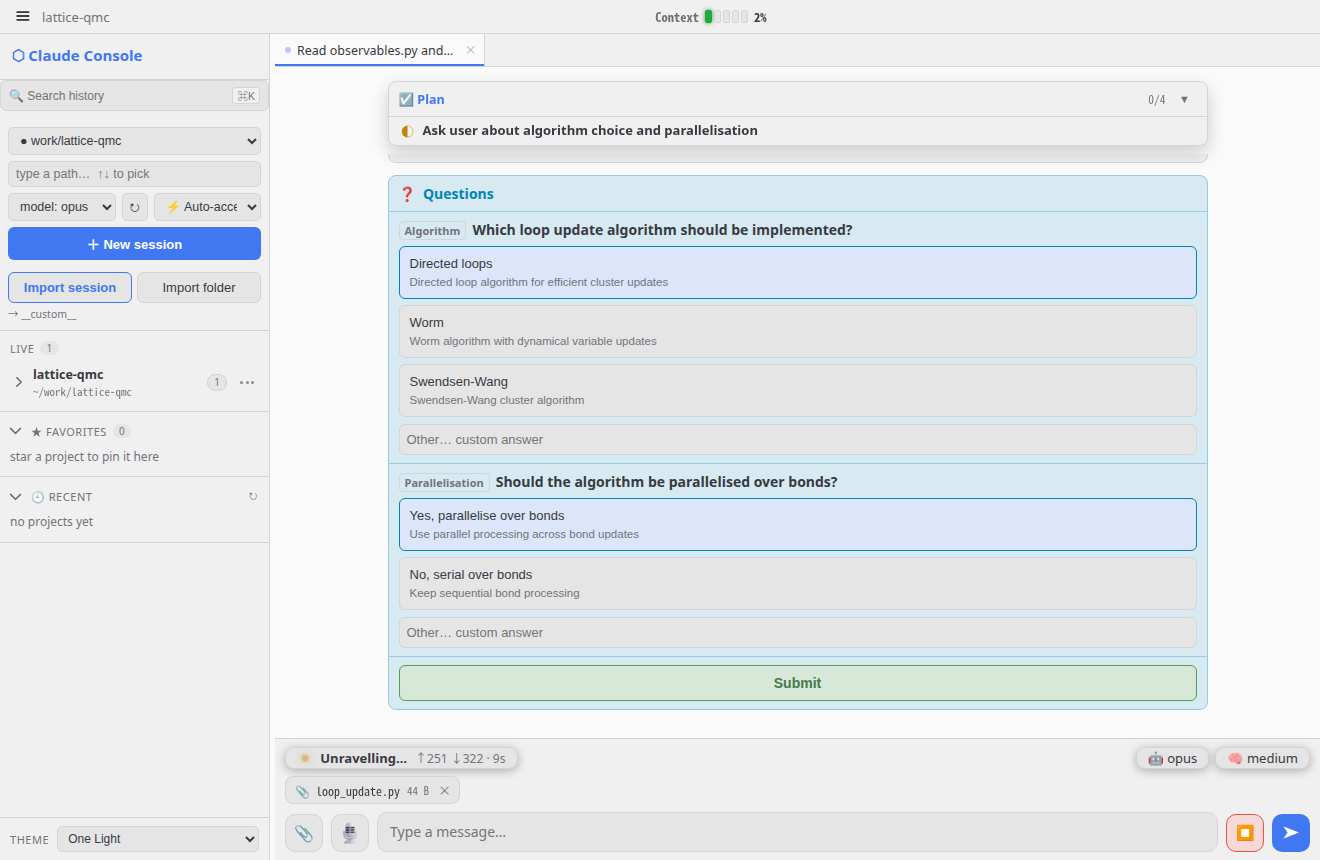
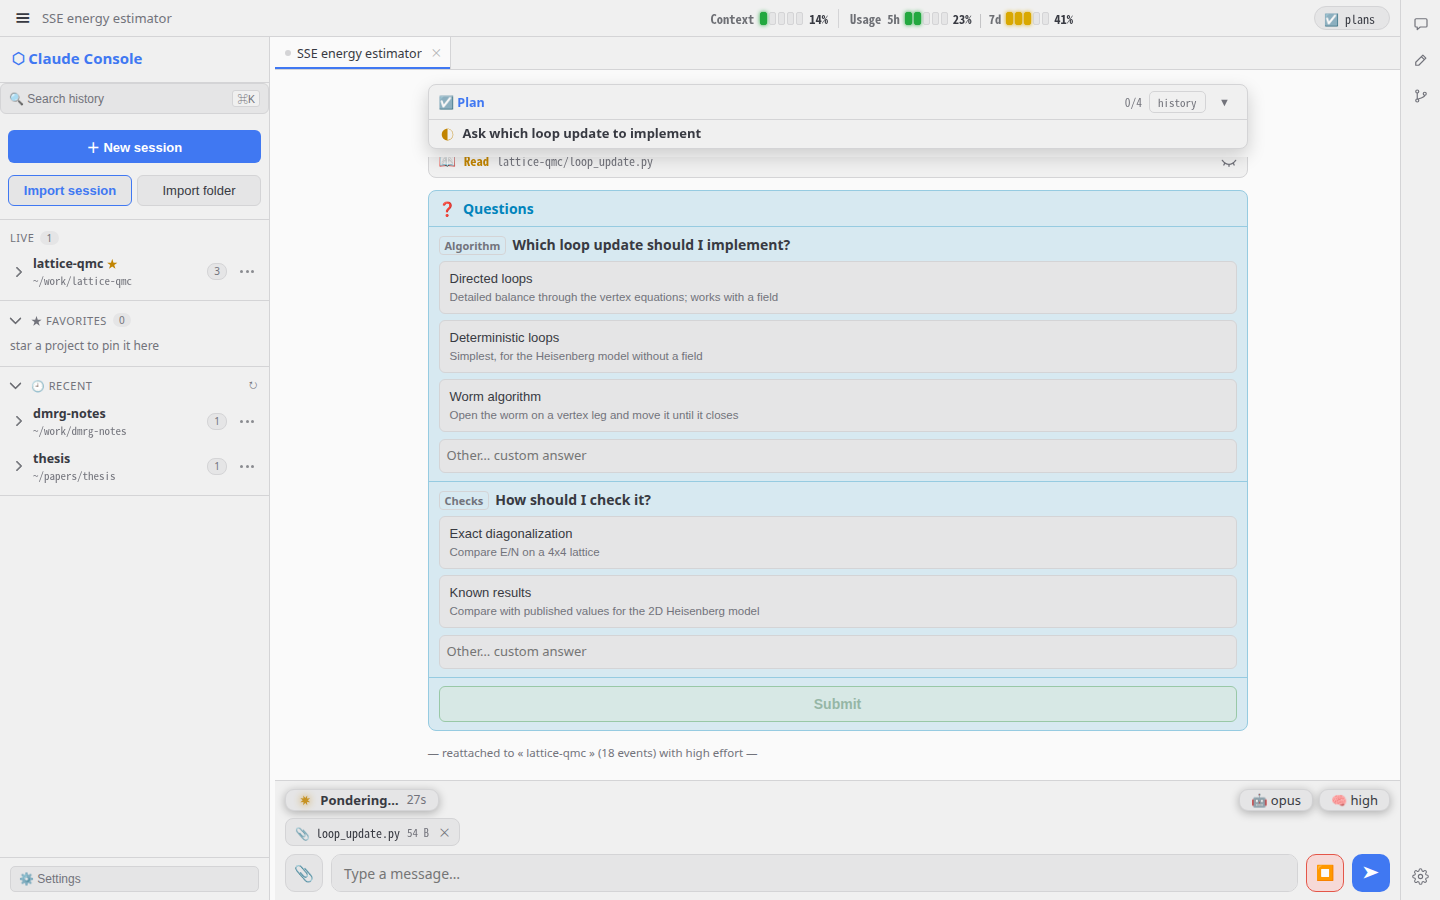
Reshoot the README screenshots and describe side chats and screen sizes
The screenshots were from before the right rail, the docked drawer, side
chats and the phone toolbar. The new set comes from the real page fed a
scripted demo conversation (no CLI, no account, nothing from a real
session): a wide window with the plan, KaTeX and file links and a side chat
docked beside the chat; the AskUserQuestion card with the plan folded and a
file in the composer; and a phone with its toolbar above the header.

The feature list gains side chats, the wide- and narrow-screen layouts, and
Settings → About with the apps' updates, in both READMEs.

diff --git a/README.md b/README.md
@@ -11,16 +11,22 @@ things a raw terminal tangles together:
   live `git diff` of the working directory (ground truth)
 
 <p align="center">
-  <img src="figs/chat-plan-math-links.png" width="49%"
-       alt="Claude Console — the plan pinned above the chat, KaTeX math, and file paths as links">
-  <img src="figs/choices-and-attachments.png" width="49%"
-       alt="Claude Console — an AskUserQuestion card with options, and a file waiting in the composer">
+  <img src="figs/desktop-chat-side-chat.png" width="96%"
+       alt="Claude Console on a wide screen — the plan pinned above an answer with KaTeX math and file links, and a side chat docked on the right">
 </p>
 <p align="center">
-  <sub>Left: the plan stays pinned while the answer scrolls under it; math renders with KaTeX and
-  file paths become links that open in a web file manager. Right: the agent asking <em>you</em> a
-  question, with the plan folded to just the active task and a file attached to the next message.
-  Both in the One Light theme.</sub>
+  <img src="figs/choices-and-attachments.png" width="74.5%"
+       alt="Claude Console — an AskUserQuestion card with options, the plan folded to its active step, and a file waiting in the composer">
+  <img src="figs/phone.png" width="21.5%"
+       alt="Claude Console on a phone — the toolbar above the header, and the same answer">
+</p>
+<p align="center">
+  <sub>Top: the plan stays pinned while the answer scrolls under it; math renders with KaTeX and
+  file paths become links that open in a web file manager. On the right, a side chat about a
+  selected formula, docked beside the chat, on its own model. Bottom left: the agent asking
+  <em>you</em> a question, with the plan folded to its active step and a file attached to the next
+  message. Bottom right: a phone, with the usage, the drawer's tabs, search and Settings in a
+  toolbar above the header. All in the One Light theme, from a scripted demo session.</sub>
 </p>
 
 It drives Claude Code through the **Claude Agent SDK** (which runs the real
@@ -174,6 +180,12 @@ which is the whole point.
 - **New session dialog** — browse or create a folder, then choose the model,
   thinking effort and permission mode (⏩ Full auto, the default / ⚡ Auto-accept / 🔐 Approve / 📋 Plan).
   The model list can be refreshed inside the dialog. Active-session controls remain available.
+- **Side chats** — select text in a message and choose **Ask in side chat**: a separate
+  conversation about the selection opens in the drawer, beside the main one. It starts from
+  the quote and the message it came from, runs on its own model (Sonnet unless you pick
+  another), and stays out of the main session's context and out of the session list. Each
+  session keeps its own side chats. **+ New side chat** starts one with no quote, which knows
+  the project but not the conversation.
 
 ### Everything else
 
@@ -189,6 +201,14 @@ which is the whole point.
   on Max), each with its reset time on hover; a floating status pill (ready / working timer / live token counts) plus
   the model and effort pills above a full-width composer. Past 60% of the window
   the empty composer reads *update your snapshot*.
+- **Wide and narrow screens** — when the window is wide enough (a desktop, a tablet, an
+  unfolded foldable), the drawer docks beside the chat instead of covering it, and a rail on
+  the right edge opens Side chats, Edits, Git diff and Settings. Below 600 px a toolbar above
+  the header carries the usage meters, the drawer's tabs, search and Settings.
+- **About** — ⚙ Settings → About shows the console's version (the commit the server started
+  from). In the Android and desktop apps it also shows the app's own version with **Check for
+  updates**; the console serves their updates (`api/android/*`, `api/desktop/*`) from
+  `~/.local/share/claude-console/`.
 
 ## Run
 

diff --git a/README.zh-CN.md b/README.zh-CN.md
@@ -10,15 +10,21 @@
   实时 `git diff`（事实依据）
 
 <p align="center">
-  <img src="figs/chat-plan-math-links.png" width="49%"
-       alt="Claude Console —— 悬停在对话上方的 plan、KaTeX 公式，以及渲染成链接的文件路径">
-  <img src="figs/choices-and-attachments.png" width="49%"
-       alt="Claude Console —— 带选项的 AskUserQuestion 卡片，以及输入框里待发送的附件">
+  <img src="figs/desktop-chat-side-chat.png" width="96%"
+       alt="宽屏上的 Claude Console —— 钉在回答上方的 plan、KaTeX 公式和文件链接，右侧停靠着一个辅助对话">
 </p>
 <p align="center">
-  <sub>左：回答向下滚动时 plan 始终钉在上方；公式由 KaTeX 渲染，文件路径变成链接，
-  点击可在 web file manager 中打开。右：agent 反过来问<em>你</em>问题，plan 已折叠到
-  只剩当前任务，下一条消息里附着一个文件。均为 One Light 主题。</sub>
+  <img src="figs/choices-and-attachments.png" width="74.5%"
+       alt="Claude Console —— 带选项的 AskUserQuestion 卡片，plan 折叠到当前一步，输入框里有一个待发送的文件">
+  <img src="figs/phone.png" width="21.5%"
+       alt="手机上的 Claude Console —— 顶栏上方的工具栏，以及同一个回答">
+</p>
+<p align="center">
+  <sub>上：回答向下滚动时 plan 始终钉在上方；公式由 KaTeX 渲染，文件路径变成链接，点击可在
+  web file manager 中打开。右侧是针对选中公式的辅助对话，停靠在对话旁边，用它自己的模型。
+  左下：agent 反过来问<em>你</em>问题，plan 折叠到当前一步，下一条消息里附着一个文件。右下：
+  手机上，用量、抽屉的各个标签页、搜索和设置都在顶栏上方的工具栏里。均为 One Light 主题，
+  来自一个脚本生成的演示 session。</sub>
 </p>
 
 它通过 **Claude Agent SDK** 驱动 Claude Code（SDK 以 headless stream-json 模式
@@ -133,6 +139,11 @@
 - **新建会话弹窗** —— 浏览或新建文件夹，再选择模型、思考深度和权限模式
   （默认 ⏩ Full auto / ⚡ Auto-accept / 🔐 Approve / 📋 Plan）。模型列表可在弹窗内刷新，
   已有会话的设置入口保持可用。
+- **辅助对话（side chats）** —— 在消息里选中一段文字，点 **Ask in side chat**：关于这段文字的
+  另一个对话在抽屉里打开，就在主对话旁边。它从这段引文和它所在的那条消息开始，用自己的模型
+  （默认 Sonnet，可以另选），不进入主 session 的上下文，也不出现在 session 列表里。每个 session
+  有自己的辅助对话。**+ New side chat** 新开一个不带引文的辅助对话，它了解这个项目，但不知道
+  主对话说了什么。
 
 ### 其他
 
@@ -146,6 +157,12 @@
   模型细分的周额度（Max 上的 Fable）也一并显示，悬停可看各自的复位时间；全宽输入框上方有一个
   浮动状态药丸（ready / 工作计时 / 实时 token 计数）以及模型和思考深度药丸。上下文用到
   60% 以上时，空输入框会显示 *update your snapshot*。
+- **宽屏和窄屏** —— 窗口足够宽时（桌面、平板、展开的折叠屏），抽屉停靠在对话旁边而不是盖住
+  它，右边缘的一列按钮打开 Side chats、Edits、Git diff 和 Settings。窄于 600 px 时，顶栏上方
+  有一条工具栏，放着用量计量、抽屉的各个标签页、搜索和设置。
+- **About** —— ⚙ Settings → About 显示 console 的版本（服务器启动时所在的 commit）。在 Android
+  和桌面 app 里还显示 app 自己的版本和 **Check for updates**；它们的更新由 console 提供
+  （`api/android/*`、`api/desktop/*`），文件在 `~/.local/share/claude-console/`。
 
 ## 运行
 
